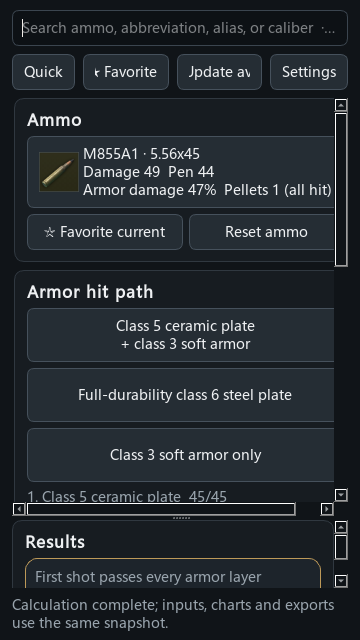
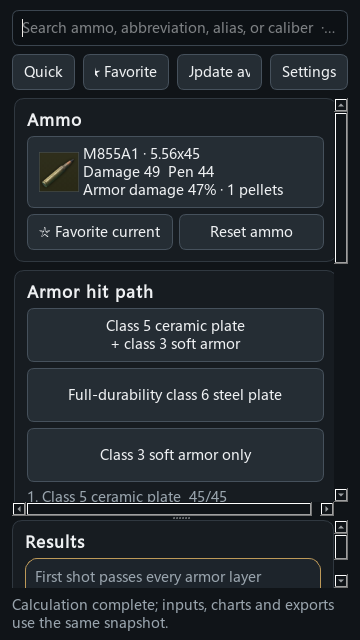
fix: keep English ammo summary within narrow Linux layouts

diff --git a/src/tarkov_armor_sim/i18n.py b/src/tarkov_armor_sim/i18n.py
@@ -34,7 +34,7 @@ EN_US: dict[str, str] = {
     "玻璃": "Glass",
     "超高分子量聚乙烯": "UHMWPE",
     "未知材料": "Unknown material",
-    "伤害 {damage:g}  穿深 {penetration:g}\n甲伤 {armor:g}%  弹丸 {pellets} (全命中)": "Damage {damage:g}  Pen {penetration:g}\nArmor damage {armor:g}%  Pellets {pellets} (all hit)",
+    "伤害 {damage:g}  穿深 {penetration:g}\n甲伤 {armor:g}%  弹丸 {pellets} (全命中)": "Damage {damage:g}  Pen {penetration:g}\nArmor damage {armor:g}% · {pellets} pellets",
     "{name}\n当前 {current:g} / 维修 {repaired:g} / 出厂 {original:g} · 实际 {ratio:.1%}": "{name}\nCurrent {current:g} / repaired {repaired:g} / original {original:g} · ratio {ratio:.1%}",
     "每发至少一颗弹丸穿透全部选定层": "At least one projectile passes all layers per trigger",
     "穿透概率": "Penetration probability",
